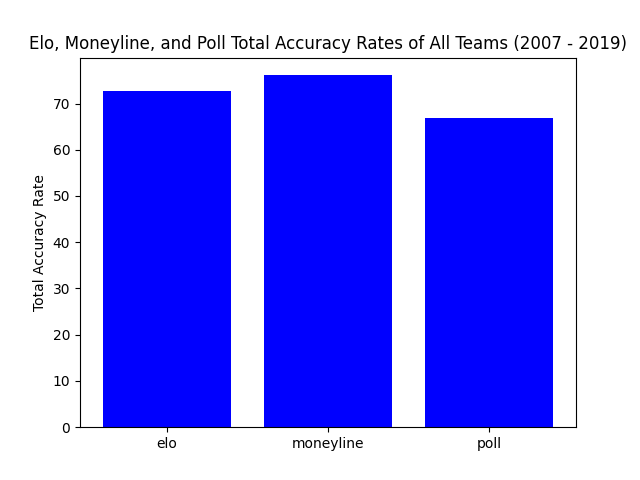
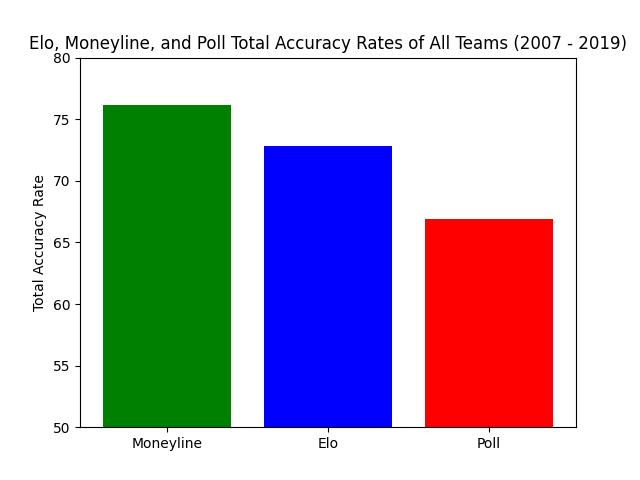
updated bar charts

diff --git a/data/accuracy_rates/src/accuracy/totalAccuracy.py b/data/accuracy_rates/src/accuracy/totalAccuracy.py
@@ -8,13 +8,17 @@ elo_accuracy = accuracy_rates.get_accuracy("e", seasons, [], [], [], [], "", "")
 moneyline_accuracy = accuracy_rates.get_accuracy("m", seasons, [], [], [], [], "", "")[0]
 poll_accuracy = accuracy_rates.get_accuracy("p", seasons, [], [], [], [], "", "")[0]
 
-categories = ["elo", "moneyline", "poll"]
-values = [elo_accuracy, moneyline_accuracy, poll_accuracy]
+categories = ["Moneyline","Elo" ,"Poll"]
+values = [moneyline_accuracy, elo_accuracy, poll_accuracy]
+colors = ['green', 'blue', 'red']
 
-plt.bar(categories, values, color='blue')
+plt.bar(categories, values, color=colors)
 
 plt.ylabel('Total Accuracy Rate')
 plt.title('Elo, Moneyline, and Poll Total Accuracy Rates of All Teams (2007 - 2019)')
+
+plt.ylim(50, 80)
+
 
 plt.savefig('data/accuracy_rates/visualizations/empTotalFull.png')
 
